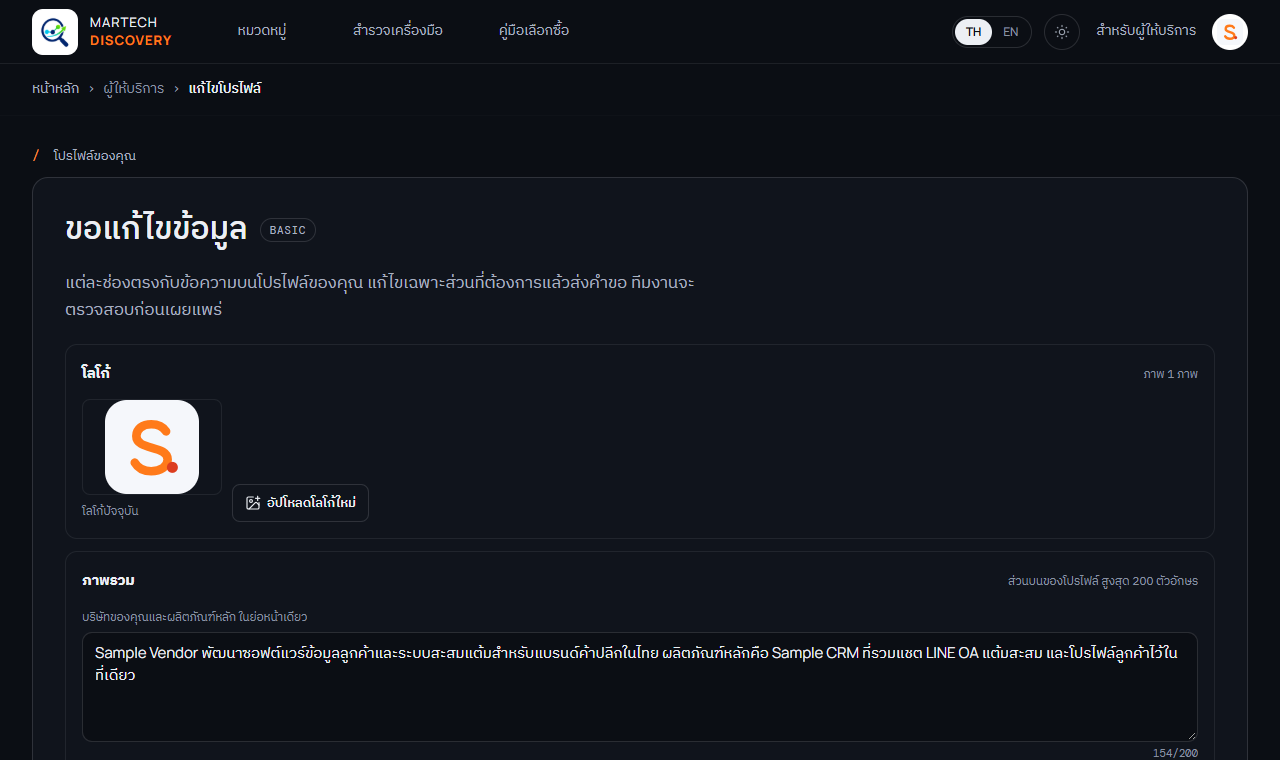
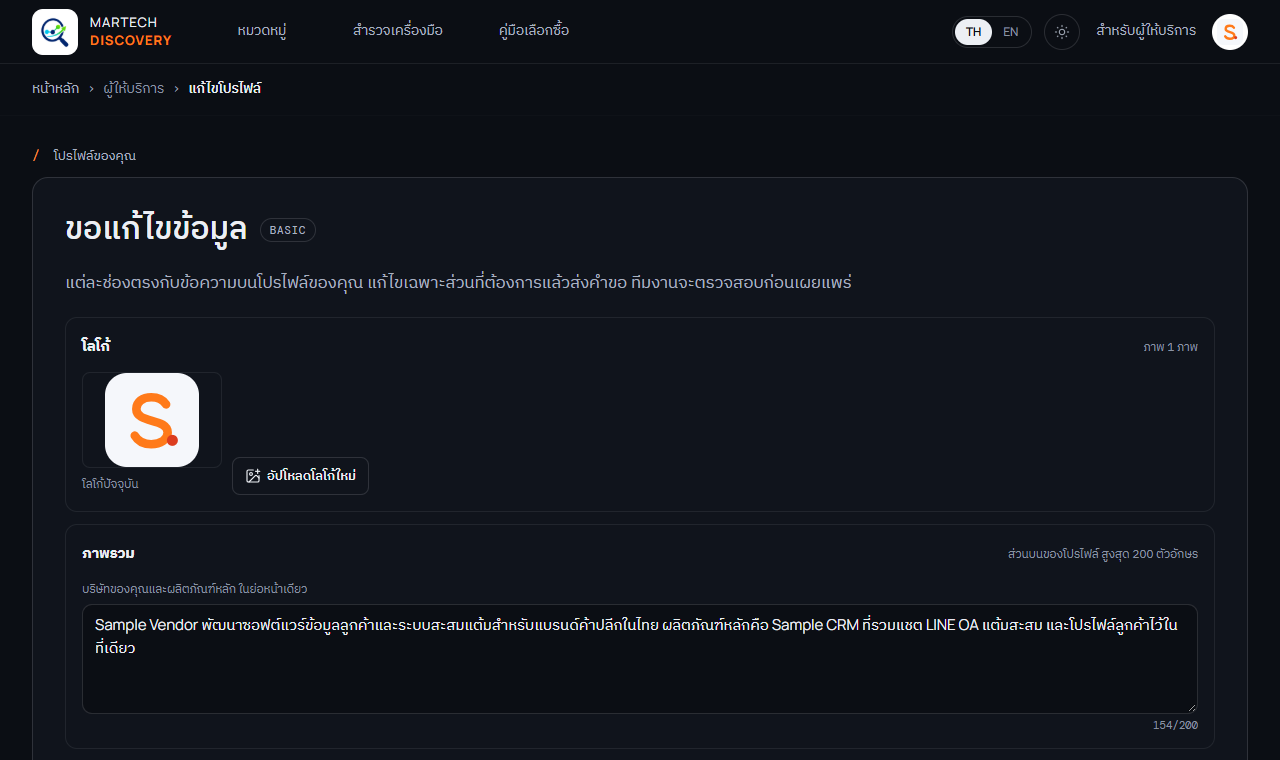
Edit form intro runs the full width instead of wrapping mid-sentence

diff --git a/site.css b/site.css
@@ -668,7 +668,7 @@ html:has(.pf-tabs){scroll-behavior:smooth}
 /* vendor edit page (prototype) */
 .site .vendor-edit-card{display:grid;gap:20px;margin-top:12px;padding:32px;border:1px solid var(--h-line-strong);border-radius:16px;background:var(--h-surface)}
 .site .vendor-edit-card h1{display:flex;align-items:center;gap:12px;flex-wrap:wrap;margin:0;font-size:32px}
-.site .vendor-edit-card .route-intro{margin:0}
+.site .vendor-edit-card .route-intro{margin:0;max-width:none;text-wrap:pretty}
 .site .vendor-edit-card .owner-status{justify-self:start}
 .site .vendor-edit-card .auth-error:empty{display:none}
 .site .vendor-edit-actions{display:flex;gap:12px;flex-wrap:wrap}
